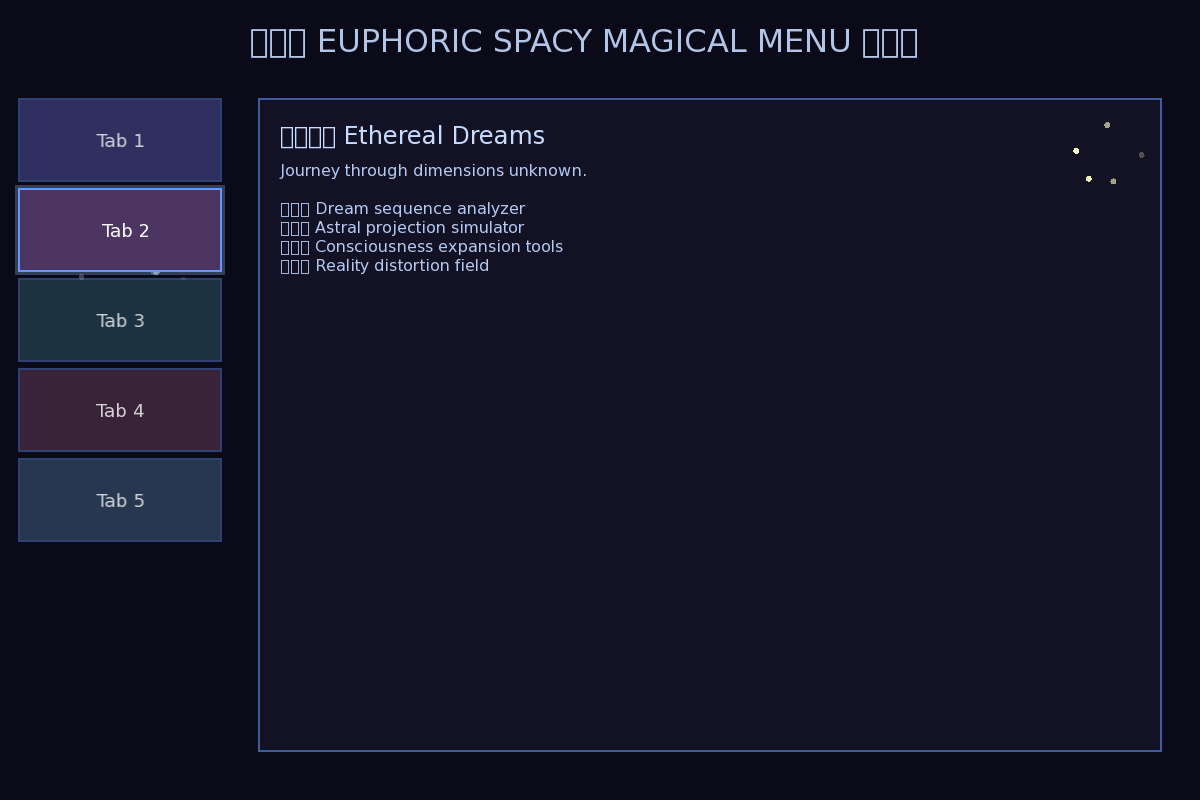
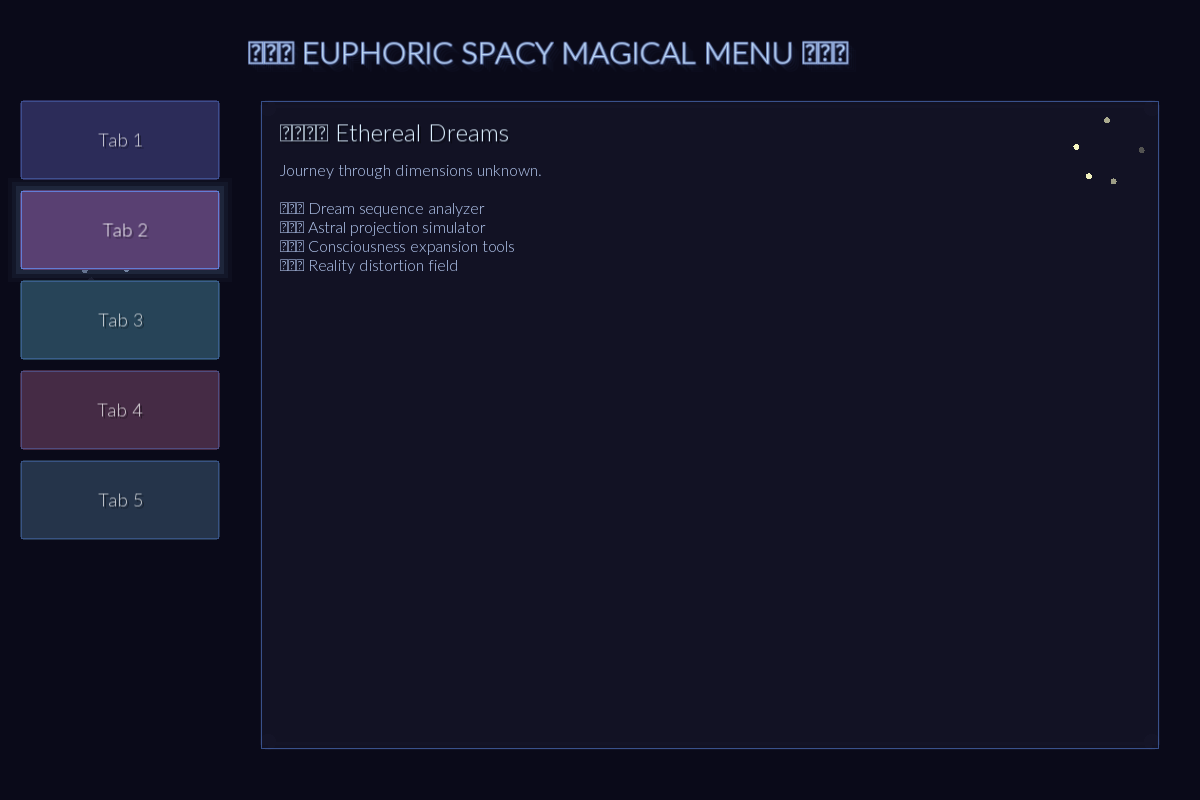
Update design to sleek and clean with floating euphoric text

diff --git a/src/main.cpp b/src/main.cpp
@@ -100,19 +100,23 @@ public:
     }
     
     void draw(sf::RenderWindow& window, sf::Font& font, float time) {
-        // Draw glow effect when hovered
+        // Draw glow effect when hovered - with softer edges
         if (hoverAnimation > 0) {
-            sf::RectangleShape glow(size + sf::Vector2f(10, 10));
-            glow.setPosition(position - sf::Vector2f(5, 5));
-            sf::Color gc = glowColor;
-            gc.a = static_cast<sf::Uint8>(gc.a * hoverAnimation * glowIntensity);
-            glow.setFillColor(gc);
-            window.draw(glow);
+            // Draw multiple layers for soft glow
+            for (int i = 3; i > 0; i--) {
+                sf::RectangleShape glow(size + sf::Vector2f(i * 8.0f, i * 8.0f));
+                glow.setPosition(position - sf::Vector2f(i * 4.0f, i * 4.0f));
+                sf::Color gc = glowColor;
+                gc.a = static_cast<sf::Uint8>((gc.a * hoverAnimation * glowIntensity) / (i * 2));
+                glow.setFillColor(gc);
+                window.draw(glow);
+            }
         }
         
-        // Draw tab background with gradient effect
-        sf::RectangleShape tab(size);
-        tab.setPosition(position);
+        // Draw tab background with rounded appearance (simulate with multiple overlapping shapes)
+        // Draw main body
+        sf::RectangleShape tab(size - sf::Vector2f(0, 10));
+        tab.setPosition(position + sf::Vector2f(0, 5));
         
         // Animated color based on time and hover
         float wave = std::sin(time + position.y * 0.01f) * 0.15f + 0.85f;
@@ -127,11 +131,66 @@ public:
         color.b = static_cast<sf::Uint8>(color.b * wave);
         
         tab.setFillColor(color);
-        tab.setOutlineThickness(2);
-        tab.setOutlineColor(sf::Color(100, 150, 255, static_cast<sf::Uint8>(100 + hoverAnimation * 155)));
         window.draw(tab);
         
-        // Draw text
+        // Draw rounded corners (circles)
+        sf::CircleShape topCorner(5);
+        topCorner.setPosition(position);
+        topCorner.setFillColor(color);
+        window.draw(topCorner);
+        
+        sf::CircleShape topCornerRight(5);
+        topCornerRight.setPosition(position.x + size.x - 10, position.y);
+        topCornerRight.setFillColor(color);
+        window.draw(topCornerRight);
+        
+        sf::CircleShape bottomCorner(5);
+        bottomCorner.setPosition(position.x, position.y + size.y - 10);
+        bottomCorner.setFillColor(color);
+        window.draw(bottomCorner);
+        
+        sf::CircleShape bottomCornerRight(5);
+        bottomCornerRight.setPosition(position.x + size.x - 10, position.y + size.y - 10);
+        bottomCornerRight.setFillColor(color);
+        window.draw(bottomCornerRight);
+        
+        // Draw top and bottom rectangles to complete rounded look
+        sf::RectangleShape topRect(sf::Vector2f(size.x - 10, 5));
+        topRect.setPosition(position.x + 5, position.y);
+        topRect.setFillColor(color);
+        window.draw(topRect);
+        
+        sf::RectangleShape bottomRect(sf::Vector2f(size.x - 10, 5));
+        bottomRect.setPosition(position.x + 5, position.y + size.y - 5);
+        bottomRect.setFillColor(color);
+        window.draw(bottomRect);
+        
+        // Subtle border for sleek look
+        sf::RectangleShape border(size - sf::Vector2f(4, 4));
+        border.setPosition(position + sf::Vector2f(2, 2));
+        border.setFillColor(sf::Color::Transparent);
+        border.setOutlineThickness(1);
+        border.setOutlineColor(sf::Color(100, 150, 255, static_cast<sf::Uint8>(80 + hoverAnimation * 100)));
+        window.draw(border);
+        
+        // Draw text with subtle shadow for depth
+        // Shadow
+        sf::Text shadow;
+        shadow.setFont(font);
+        shadow.setString(label);
+        shadow.setCharacterSize(18);
+        shadow.setFillColor(sf::Color(0, 0, 0, 100));
+        sf::FloatRect shadowBounds = shadow.getLocalBounds();
+        shadow.setPosition(
+            position.x + (size.x - shadowBounds.width) / 2 - shadowBounds.left + 2,
+            position.y + (size.y - shadowBounds.height) / 2 - shadowBounds.top + 2
+        );
+        if (hoverAnimation > 0) {
+            shadow.move(hoverAnimation * 5, 0);
+        }
+        window.draw(shadow);
+        
+        // Main text
         sf::Text text;
         text.setFont(font);
         text.setString(label);
@@ -190,25 +249,63 @@ public:
     void draw(sf::RenderWindow& window, sf::Font& font) {
         if (activeTab == -1) return;
         
-        // Background panel
-        sf::RectangleShape panel(size);
-        panel.setPosition(position);
-        panel.setFillColor(sf::Color(20, 20, 40, 200));
-        panel.setOutlineThickness(2);
-        panel.setOutlineColor(sf::Color(100, 150, 255, 150));
-        window.draw(panel);
+        // Background panel with rounded corners simulation
+        // Main panel body
+        sf::RectangleShape panelBody(sf::Vector2f(size.x, size.y - 10));
+        panelBody.setPosition(position.x, position.y + 5);
+        panelBody.setFillColor(sf::Color(20, 20, 40, 200));
+        window.draw(panelBody);
         
-        // Title
+        // Rounded corners for panel
+        float cornerRadius = 8;
+        sf::CircleShape corners[4] = {
+            sf::CircleShape(cornerRadius), // top-left
+            sf::CircleShape(cornerRadius), // top-right
+            sf::CircleShape(cornerRadius), // bottom-left
+            sf::CircleShape(cornerRadius)  // bottom-right
+        };
+        
+        corners[0].setPosition(position.x, position.y);
+        corners[1].setPosition(position.x + size.x - cornerRadius * 2, position.y);
+        corners[2].setPosition(position.x, position.y + size.y - cornerRadius * 2);
+        corners[3].setPosition(position.x + size.x - cornerRadius * 2, position.y + size.y - cornerRadius * 2);
+        
+        for (auto& corner : corners) {
+            corner.setFillColor(sf::Color(20, 20, 40, 200));
+            window.draw(corner);
+        }
+        
+        // Top and bottom strips to complete rounded look
+        sf::RectangleShape topStrip(sf::Vector2f(size.x - cornerRadius * 2, cornerRadius));
+        topStrip.setPosition(position.x + cornerRadius, position.y);
+        topStrip.setFillColor(sf::Color(20, 20, 40, 200));
+        window.draw(topStrip);
+        
+        sf::RectangleShape bottomStrip(sf::Vector2f(size.x - cornerRadius * 2, cornerRadius));
+        bottomStrip.setPosition(position.x + cornerRadius, position.y + size.y - cornerRadius);
+        bottomStrip.setFillColor(sf::Color(20, 20, 40, 200));
+        window.draw(bottomStrip);
+        
+        // Sleek border
+        sf::RectangleShape border(sf::Vector2f(size.x - 4, size.y - 4));
+        border.setPosition(position.x + 2, position.y + 2);
+        border.setFillColor(sf::Color::Transparent);
+        border.setOutlineThickness(1);
+        border.setOutlineColor(sf::Color(100, 150, 255, 120));
+        window.draw(border);
+        
+        // Title with floating effect
         sf::Text title;
         title.setFont(font);
         title.setCharacterSize(24);
-        title.setFillColor(sf::Color(200, 220, 255));
+        
+        // Subtle floating animation for title
+        float titleFloat = std::sin(animationTime * 2.0f) * 3.0f;
         
         // Content
         sf::Text content;
         content.setFont(font);
         content.setCharacterSize(16);
-        content.setFillColor(sf::Color(180, 200, 240));
         
         // Different content for each tab
         std::string titleStr, contentStr;
@@ -255,11 +352,23 @@ public:
                 break;
         }
         
+        // Draw title shadow for depth
+        sf::Text titleShadow;
+        titleShadow.setFont(font);
+        titleShadow.setString(titleStr);
+        titleShadow.setCharacterSize(24);
+        titleShadow.setFillColor(sf::Color(0, 0, 0, 100));
+        titleShadow.setPosition(position.x + 22, position.y + 22 + titleFloat);
+        window.draw(titleShadow);
+        
+        // Draw title
         title.setString(titleStr);
-        title.setPosition(position.x + 20, position.y + 20);
+        title.setFillColor(sf::Color(220, 240, 255));
+        title.setPosition(position.x + 20, position.y + 20 + titleFloat);
         window.draw(title);
         
         content.setString(contentStr);
+        content.setFillColor(sf::Color(180, 200, 240));
         content.setPosition(position.x + 20, position.y + 60);
         
         // Fade in animation
@@ -270,14 +379,15 @@ public:
         
         window.draw(content);
         
-        // Animated decorative stars
+        // Animated decorative stars with floating effect
         for (int i = 0; i < 5; i++) {
             float angle = animationTime * 0.5f + i * 1.2566f; // 2*pi/5
             float radius = 30 + std::sin(animationTime * 2 + i) * 10;
+            float floatY = std::sin(animationTime * 1.5f + i * 0.5f) * 5.0f;
             sf::CircleShape star(3);
             star.setPosition(
                 position.x + size.x - 60 + std::cos(angle) * radius,
-                position.y + 60 + std::sin(angle) * radius
+                position.y + 60 + std::sin(angle) * radius + floatY
             );
             star.setFillColor(sf::Color(255, 255, 200, static_cast<sf::Uint8>(150 + std::sin(animationTime * 3 + i) * 105)));
             window.draw(star);
@@ -291,15 +401,19 @@ int main() {
                            sf::Style::Titlebar | sf::Style::Close);
     window.setFramerateLimit(60);
     
-    // Load font (using default SFML font fallback)
+    // Load font (using elegant/modern fonts)
     sf::Font font;
-    if (!font.loadFromFile("/usr/share/fonts/truetype/dejavu/DejaVuSans.ttf")) {
-        // Try alternative paths
-        if (!font.loadFromFile("/usr/share/fonts/TTF/DejaVuSans.ttf")) {
-            if (!font.loadFromFile("/System/Library/Fonts/Helvetica.ttc")) {
-                // Font loading failed
-                std::cerr << "Error: Could not load any font file. Please ensure DejaVu or a similar font is installed." << std::endl;
-                return 1;
+    // Try modern, elegant fonts first - Lato is a beautiful modern font
+    if (!font.loadFromFile("/usr/share/fonts/truetype/lato/Lato-Light.ttf")) {
+        if (!font.loadFromFile("/usr/share/fonts/truetype/liberation/LiberationSans-Regular.ttf")) {
+            if (!font.loadFromFile("/usr/share/fonts/truetype/dejavu/DejaVuSans.ttf")) {
+                if (!font.loadFromFile("/usr/share/fonts/TTF/DejaVuSans.ttf")) {
+                    if (!font.loadFromFile("/System/Library/Fonts/Helvetica.ttc")) {
+                        // Font loading failed
+                        std::cerr << "Error: Could not load any font file. Please ensure Lato, Liberation, or DejaVu fonts are installed." << std::endl;
+                        return 1;
+                    }
+                }
             }
         }
     }
@@ -435,13 +549,45 @@ int main() {
             tab.draw(window, font, time);
         }
         
-        // Draw title
+        // Draw title with floating animation and multiple effects
+        float floatOffset = std::sin(time * 1.5f) * 15.0f; // Smooth up/down floating
+        float floatOffsetX = std::cos(time * 0.8f) * 8.0f; // Subtle horizontal sway
+        float scale = 1.0f + std::sin(time * 2.0f) * 0.05f; // Gentle pulsing
+        
+        // Draw multiple shadow layers for depth and glow
+        for (int i = 4; i > 0; i--) {
+            sf::Text titleShadow;
+            titleShadow.setFont(font);
+            titleShadow.setString("✨ EUPHORIC SPACY MAGICAL MENU ✨");
+            titleShadow.setCharacterSize(32);
+            sf::Color shadowColor(100, 150, 255, static_cast<sf::Uint8>(30 / i));
+            titleShadow.setFillColor(shadowColor);
+            titleShadow.setPosition(250 + floatOffsetX + i * 2, 20 + floatOffset + i * 2);
+            titleShadow.setScale(scale, scale);
+            window.draw(titleShadow);
+        }
+        
+        // Main title with gradient-like effect using multiple text layers
         sf::Text title;
         title.setFont(font);
         title.setString("✨ EUPHORIC SPACY MAGICAL MENU ✨");
         title.setCharacterSize(32);
-        title.setFillColor(sf::Color(200, 220, 255, static_cast<sf::Uint8>(200 + std::sin(time * 2) * 55)));
-        title.setPosition(250, 20);
+        
+        // Animated color with smooth transitions
+        float colorWave = std::sin(time * 2) * 0.5f + 0.5f;
+        sf::Uint8 r = static_cast<sf::Uint8>(200 + colorWave * 55);
+        sf::Uint8 g = static_cast<sf::Uint8>(220 + std::sin(time * 2.3f) * 35);
+        sf::Uint8 b = 255;
+        sf::Uint8 a = static_cast<sf::Uint8>(240 + std::sin(time * 3.0f) * 15);
+        
+        title.setFillColor(sf::Color(r, g, b, a));
+        title.setPosition(250 + floatOffsetX, 20 + floatOffset);
+        title.setScale(scale, scale);
+        
+        // Add subtle outline for crispness
+        title.setOutlineThickness(1);
+        title.setOutlineColor(sf::Color(150, 180, 255, static_cast<sf::Uint8>(a * 0.7f)));
+        
         window.draw(title);
         
         window.display();
